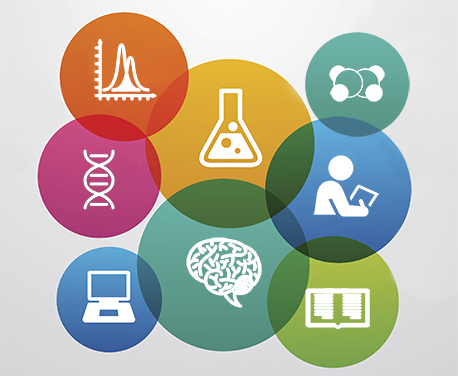
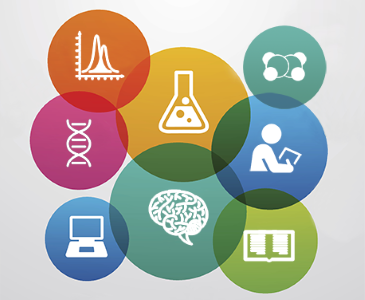
i

diff --git a/index.html b/index.html
@@ -44,7 +44,7 @@
     <section class="showcase text-light p-2 text-center">
         <div class="container">
             <div class="row">
-                <div class="col-lg-6 p-0 d-flex align-items-center">
+                <div class="col-lg-6 p-0 d-flex align-items-center justify-content-center">
                     <img class="img-fluid" src="img/HomePageImage.jpg" alt="Image of Lake">
                 </div>
                 <div class="col-lg-6 p-0 d-flex align-items-center">
@@ -80,7 +80,7 @@
                     </p>
                 </div>
                 <div class="col-lg-4 p-3 d-flex align-items-center">
-                    <img class="img-fluid adjust-height" id="ovPadLeft" src="img/rationalesection.jpg" alt="Image of Stream"> 
+                    <img class="img-fluid" id="ovPadLeft" src="img/rationaleimage.jpg" alt="Image of Stream"> 
                 </div>
             </div>
             <div class="row">

diff --git a/style.css b/style.css
@@ -1,12 +1,4 @@
 /*--------- Class CSS --------- */
-.adjust-height {
-    max-height: 400px;
-}
-
-.procedure-font{
-    font-size: 1.1rem;
-    font-weight: 300;
-}
 
 .procedure-header{
     color: rgb(82,81,81);
